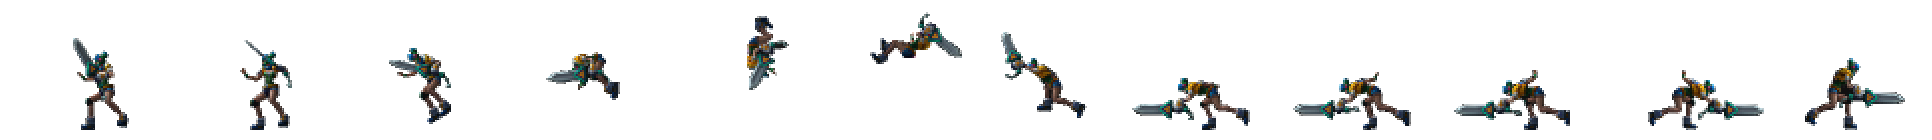
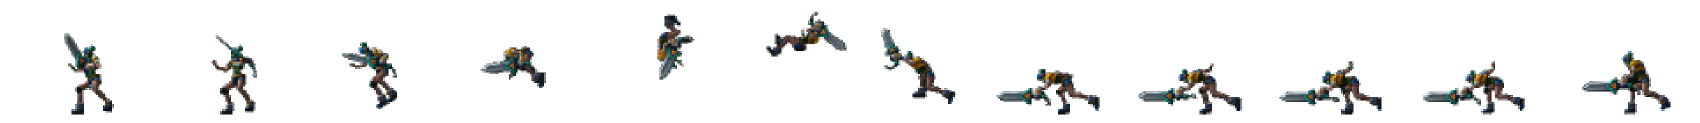
3x Q kinda? still need to fix left offset.
to fix:
moving while attacking

diff --git a/491Game/main.js b/491Game/main.js
@@ -124,6 +124,8 @@ UI.prototype.draw = function (ctx) {
     Entity.prototype.draw.call(this);	
 };
 
+var COMBO_DROPOFF_TIME = 5;
+
 var ARROW_PART_MAIN = 1;
 var ARROW_PART_SECONDARY = 2;
 
@@ -281,8 +283,13 @@ function Character(game) {
     this.attackAnimation = null;
     this.attackAnimation1Right = new Animation(ASSET_MANAGER.getAsset("./img/Riven/RivenQ1Right.png"), 0, 0, 92, 110, 0.08, 10, false, false, -18, -29);
     this.attackAnimation1Left = new Animation(ASSET_MANAGER.getAsset("./img/Riven/RivenQ1Left.png"), 0, 0, 92, 110, 0.08, 10, false, false, -18, -29);
-    this.attackAnimation2Right = new Animation(ASSET_MANAGER.getAsset("./img/Riven/RivenQ2Right.png"), 0, 0, 153, 120, 0.08, 10, false, false, 0, -25);
-    this.attackAnimation2Left = new Animation(ASSET_MANAGER.getAsset("./img/Riven/RivenQ2Left.png"), 0, 0, 153, 120, 0.08, 10, false, false, 0, -25);
+    this.attackAnimation2Right = new Animation(ASSET_MANAGER.getAsset("./img/Riven/RivenQ2Right.png"), 0, 0, 123.8889, 97, 0.08, 10, false, false, -20, -10);
+    this.attackAnimation2Left = new Animation(ASSET_MANAGER.getAsset("./img/Riven/RivenQ2Left.png"), 0, 0, 123.8889, 97, 0.08, 10, false, false, -20, -10);
+    this.attackAnimation3Right = new Animation(ASSET_MANAGER.getAsset("./img/Riven/RivenQ3Right.png"), 0, 0, 141.667, 123, 0.08, 12, false, false, -20, -25);
+    this.attackAnimation3Left = new Animation(ASSET_MANAGER.getAsset("./img/Riven/RivenQ3Left.png"), 0, 0, 141.667, 123, 0.08, 12, false, false, -20, -25);
+    
+    this.lastSideStrongIndex = 0; //your last side strong attack index, for combo purposes
+    this.sideStrongComboTime = 0; //the timer before the combo drops off
     
 	this.running = false;
     this.jumping = false;
@@ -327,34 +334,61 @@ Character.prototype.update = function () {
 	} else {
 		this.running = false;
 	}
+
+    this.sideStrongComboTime -= this.game.clockTick;
+    if (this.sideStrongComboTime <= 0 && this.lastSideStrongIndex > 0) {
+    	console.log("combo stage "+this.lastSideStrongIndex+" has dropped off!");
+    	this.lastSideStrongIndex = 0;
+    }
+    
+  //process the raw attack input into the appropriate skill
+    if (this.game.player1AttackInput > 0) { 
+		switch(this.game.player1AttackInput) {
+			case 1: //light attack
+		    	if (!this.attacking && !this.jumping) {
+		    		this.attacking = true;
+		    		//q will take attack indexes 1, 2, and 3
+		    		if (this.lastSideStrongIndex < 3)
+		    			this.game.player1AttackIndex = this.lastSideStrongIndex + 1;
+		    		else
+		    			this.game.player1AttackIndex = 1;
+		    		this.lastSideStrongIndex = this.game.player1AttackIndex;
+		    		this.sideStrongComboTime = COMBO_DROPOFF_TIME;
+		        	console.log("combo stage "+this.game.player1AttackIndex+" started");
+		    	}
+	    	break;
+		}
+    }
 	
-	if (this.game.player1AttackIndex > 0) { //certain skills can break movement
+	if (this.game.player1AttackIndex > 0) {
+		this.attackIndex = this.game.player1AttackIndex;
 		switch(this.game.player1AttackIndex) {
 			case 1: //light attack
-				if (!this.attacking && !this.jumping) { //no attacking in the air... for now
-					this.attacking = true;
-			    	if (this.game.player1LastDirection === "Right") {
-			    		this.attackAnimation = this.attackAnimation1Right;
-						this.lastDirection = "Right";
-			    	} else {
-			    		this.attackAnimation = this.attackAnimation1Left;
-						this.lastDirection = "Left";
-					}
-					this.attackIndex = this.game.player1AttackIndex;
+		    	if (this.game.player1LastDirection === "Right") {
+		    		this.attackAnimation = this.attackAnimation1Right;
+		    	} else {
+		    		this.attackAnimation = this.attackAnimation1Left;
 				}
-			case 2:
-				if (!this.attacking && !this.jumping) {
-					this.attacking = true;
-			    	if (this.game.player1LastDirection === "Right") {
-			    		this.attackAnimation = this.attackAnimation2Right;
-						this.lastDirection = "Right";
-			    	} else {
-			    		this.attackAnimation = this.attackAnimation2Left;
-						this.lastDirection = "Left";
-					}
-					this.attackIndex = this.game.player1AttackIndex;
-				}	
 			break;
+			case 2:
+		    	if (this.game.player1LastDirection === "Right") {
+		    		this.attackAnimation = this.attackAnimation2Right;
+		    	} else {
+		    		this.attackAnimation = this.attackAnimation2Left;
+				}
+			break;
+			case 3:
+		    	if (this.game.player1LastDirection === "Right") {
+		    		this.attackAnimation = this.attackAnimation3Right;
+		    	} else {
+		    		this.attackAnimation = this.attackAnimation3Left;
+				}
+			break;
+		}
+    	if (this.game.player1LastDirection === "Right") {
+			this.lastDirection = "Right";
+    	} else {
+			this.lastDirection = "Left";
 		}
 	}
 	
@@ -390,7 +424,7 @@ Character.prototype.update = function () {
         if (this.attackAnimation != null && this.attackAnimation.isDone()) {
             this.attackAnimation.elapsedTime = 0;
             this.attacking = false;
-			this.game.player1LastLightAttack = this.attackIndex;
+			this.game.player1AttackIndex = 0;
             this.attackIndex = 0;
         }
 	}
@@ -448,6 +482,8 @@ ASSET_MANAGER.queueDownload("./img/Riven/RivenQ1Left.png");
 ASSET_MANAGER.queueDownload("./img/Riven/RivenQ1Right.png");
 ASSET_MANAGER.queueDownload("./img/Riven/RivenQ2Left.png");
 ASSET_MANAGER.queueDownload("./img/Riven/RivenQ2Right.png");
+ASSET_MANAGER.queueDownload("./img/Riven/RivenQ3Left.png");
+ASSET_MANAGER.queueDownload("./img/Riven/RivenQ3Right.png");
 ASSET_MANAGER.queueDownload("./img/Riven/RivenJumpLeft.png");
 ASSET_MANAGER.queueDownload("./img/Riven/RivenJumpRight.png");
 

diff --git a/491Game/gameengine.js b/491Game/gameengine.js
@@ -56,7 +56,8 @@ GameEngine.prototype.init = function (ctx) {
 	this.player1MaxHealth = 100.0;
 	this.player1Stamina = 100.0;
 	this.player1MaxStamina = 100.0;
-	this.player1AttackIndex = 0;
+	this.player1AttackIndex = 0; //the actual skill being used
+	this.player1AttackInput = 0; //the raw attack input
 	this.player1LastLightAttack = 0;
 	
 	this.bossLastDirection = "Left";
@@ -92,7 +93,7 @@ GameEngine.prototype.startInput = function () {
 		} else if (String.fromCharCode(e.which) === 'W') {
 			that.player1Jump = true;
 		} else if (String.fromCharCode(e.which) === 'Y') {
-			that.player1AttackIndex = 1;
+			that.player1AttackInput = 1;
 		}
         if (String.fromCharCode(e.which) === 'R') {
 			that.r = true;
@@ -113,7 +114,7 @@ GameEngine.prototype.startInput = function () {
 			that.player1Jump = false;
 		}
         if (String.fromCharCode(e.which) === 'Y') {
-			that.player1AttackIndex = 0;
+			that.player1AttackInput = 0;
 		}
         //console.log("KeyUP: "+String.fromCharCode(e.which));
         e.preventDefault();
